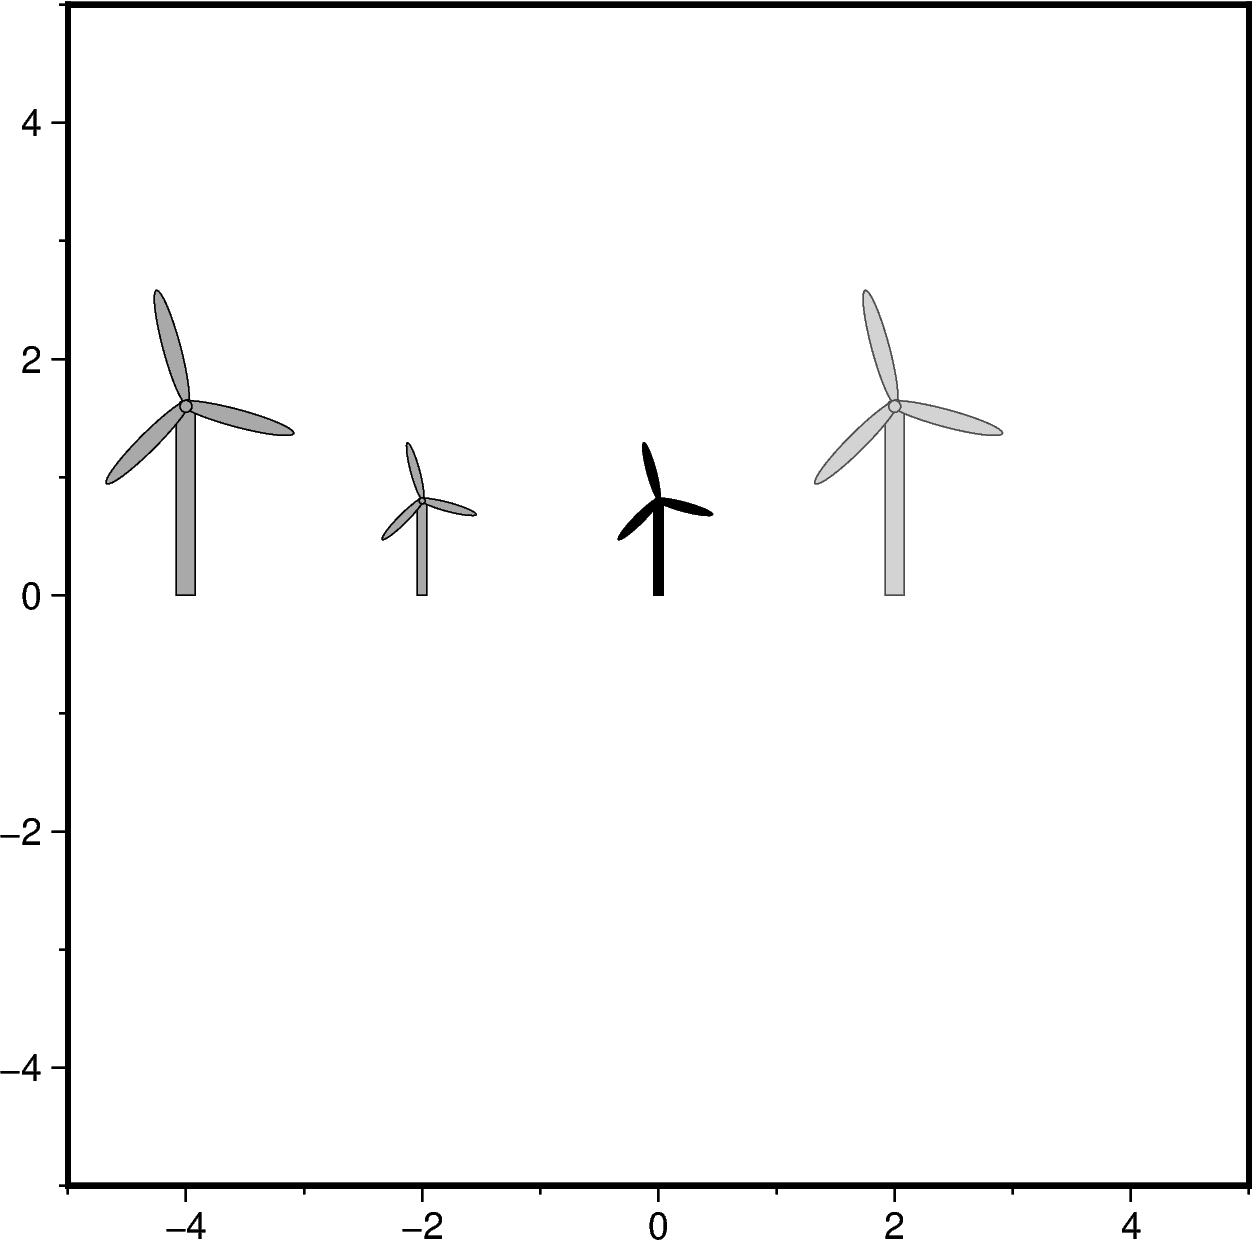
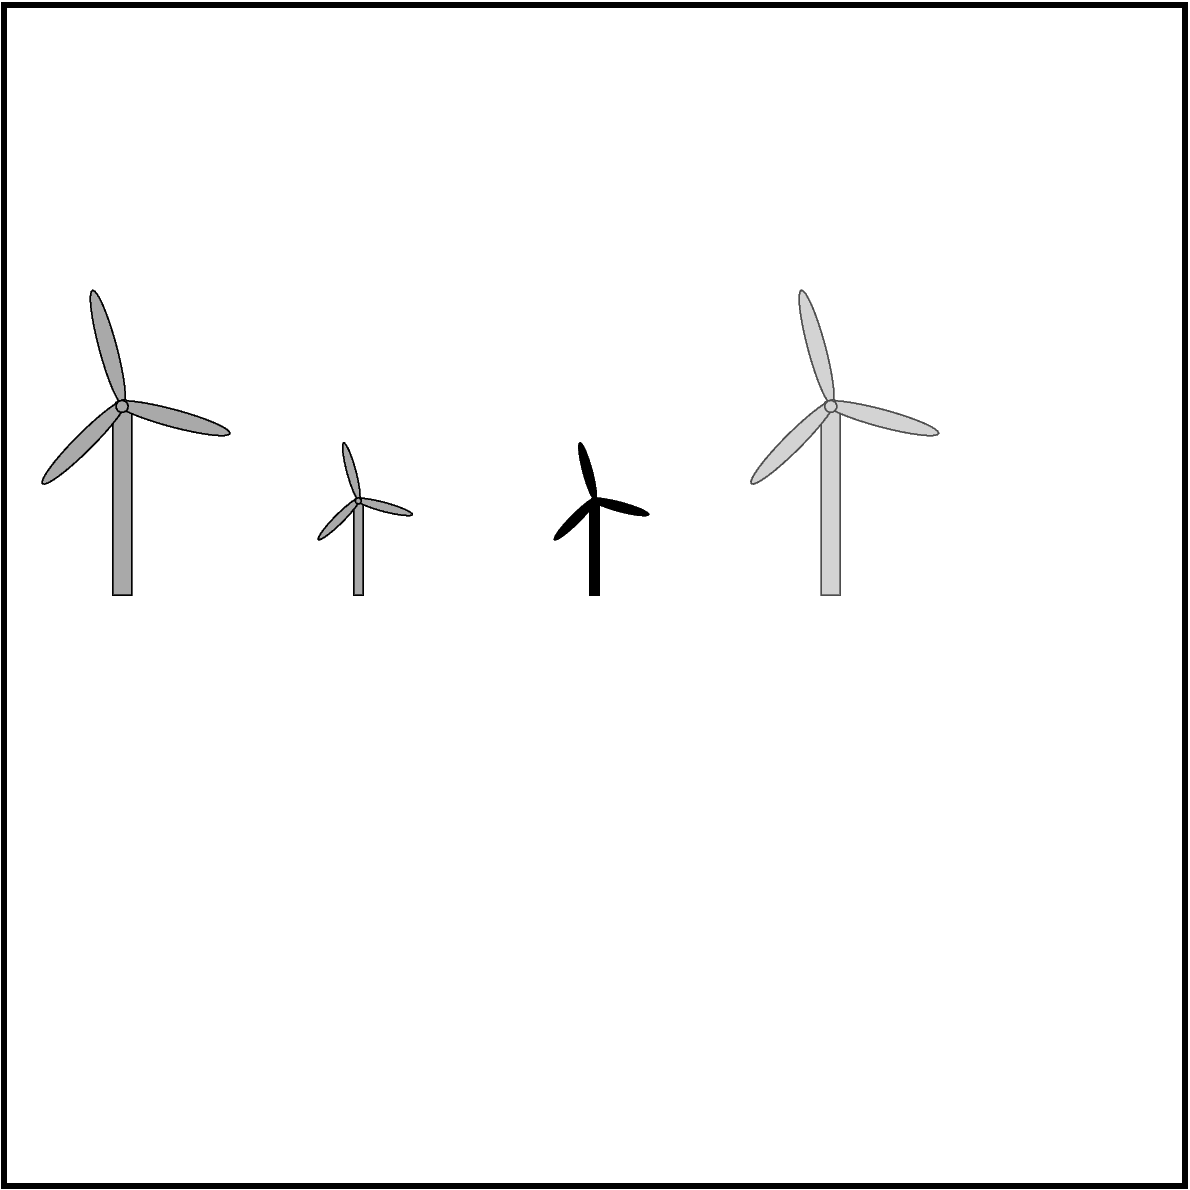
Use frame=0

diff --git a/000_general_stuff/01_symbols/windturbine.py b/000_general_stuff/01_symbols/windturbine.py
@@ -20,21 +20,13 @@ import pygmt as gmt
 # -----------------------------------------------------------------------------
 # General stuff
 # -----------------------------------------------------------------------------
-
 size = 5
-
 
 # -----------------------------------------------------------------------------
 # Make plot
 # -----------------------------------------------------------------------------
-
 fig = gmt.Figure()
-
-fig.basemap(
-    region=[-size, size, -size, size],
-    projection=f"X{size * 2}c",
-    frame=True,
-)
+fig.basemap(region=[-size, size, -size, size], projection=f"X{size * 2}c", frame=0)
 
 fig.plot(
     x=-4,
@@ -69,4 +61,4 @@ fig.plot(
 )
 
 fig.show()
-# fig.savefig(fname="windturbine.png")
+fig.savefig(fname="windturbine.png")
